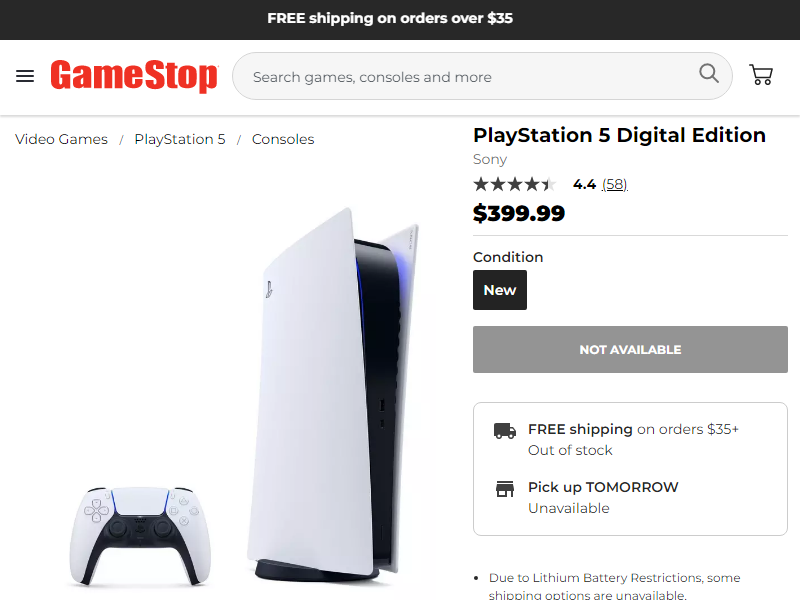
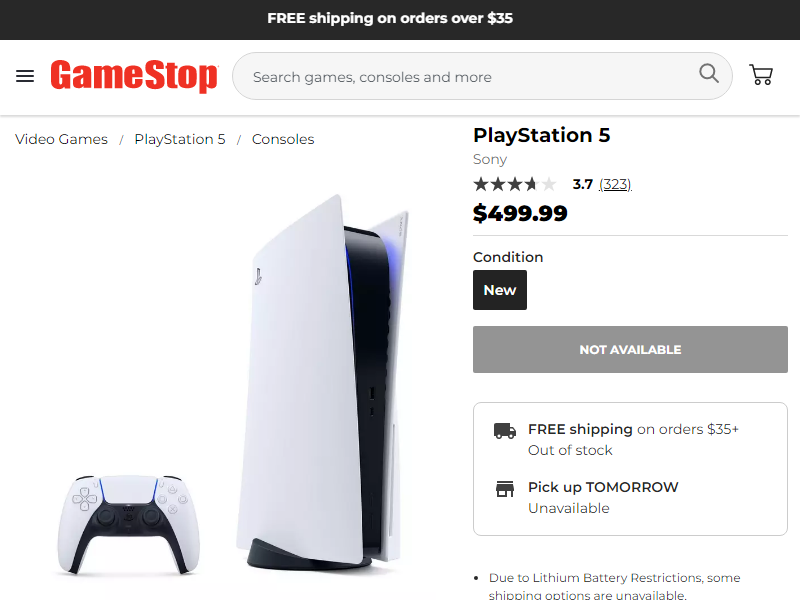
Added logic for scraping ps5 from gamestop; added a ini function for calling the scrapers

diff --git a/index.js b/index.js
@@ -32,8 +32,11 @@ let report = {
 };
 
 
+
+getAvailability();
+
 // GAMESTOP - Digital & Standard Edition
-const getDigitalPS5_GameStop = async (url) => {
+const getGameStop_PS5 = async (url) => {
     try {
         const browser = await puppeteer.launch({ headless: true });
         const page = await browser.newPage();
@@ -56,31 +59,11 @@ const getDigitalPS5_GameStop = async (url) => {
 }
 
 
-getDigitalPS5_GameStop(url_gameStop_playstation_dig)
-getDigitalPS5_GameStop(url_gameStop_playstation_stan)
 
 
+const getAvailability = async () => {
+    report.playstation.gamestop.dig = await getGameStop_PS5(url_gameStop_playstation_dig)
+    report.playstation.gamestop.stan = await getGameStop_PS5(url_gameStop_playstation_stan)
 
-
-
-
-
-
-
-// const puppeteer = require('puppeteer');
-
-// async function scrapePage(url) {
-//     const browser = await puppeteer.launch();
-//     // const page = await browser.newPage();
-//     // await page.goto(url);
-
-//     // const [el] = await page.$x('//*[@id="add-to-cart"]')
-//     // const src = await el.getProperty('class');
-//     // const srcTxt = await src.jsonValue();
-
-//     // console.log({srcTxt});
-
-// }
-
-
-// scrapePage(url2)
+    console.log(report);
+}
